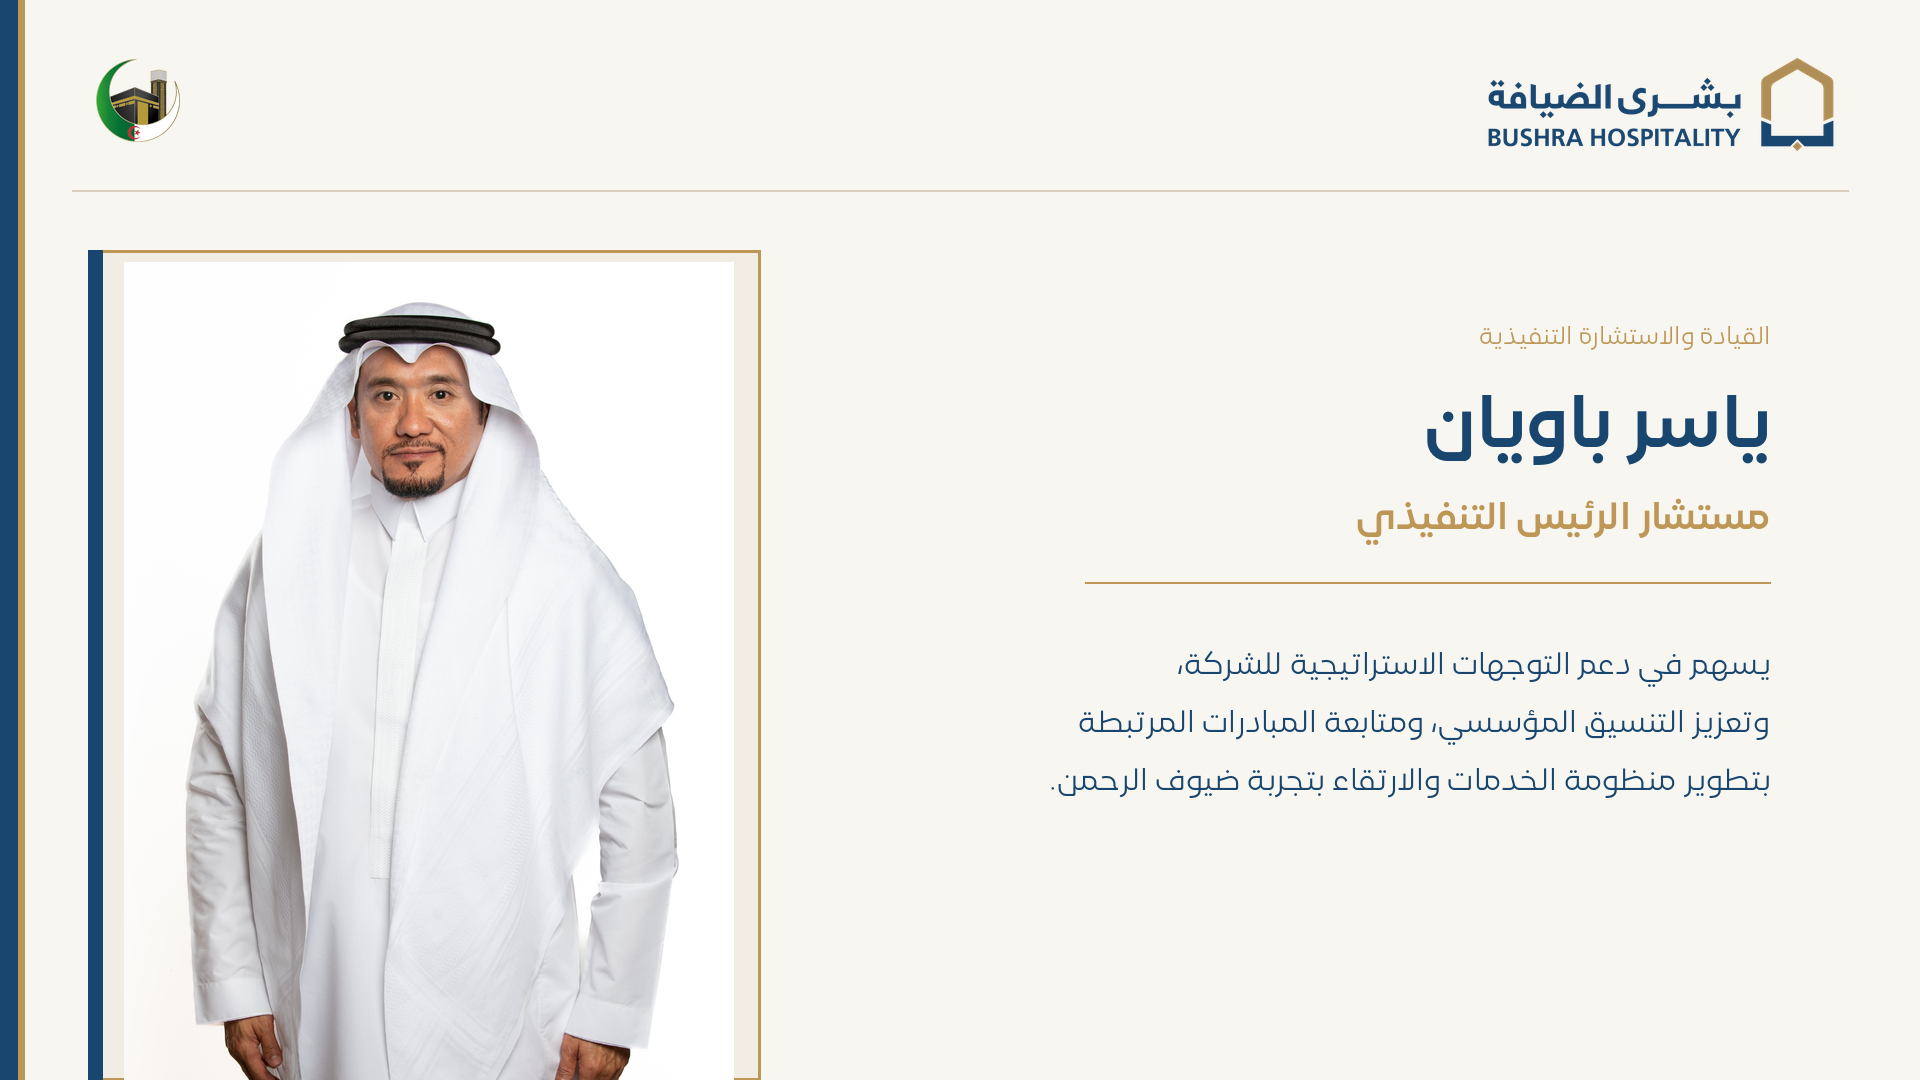
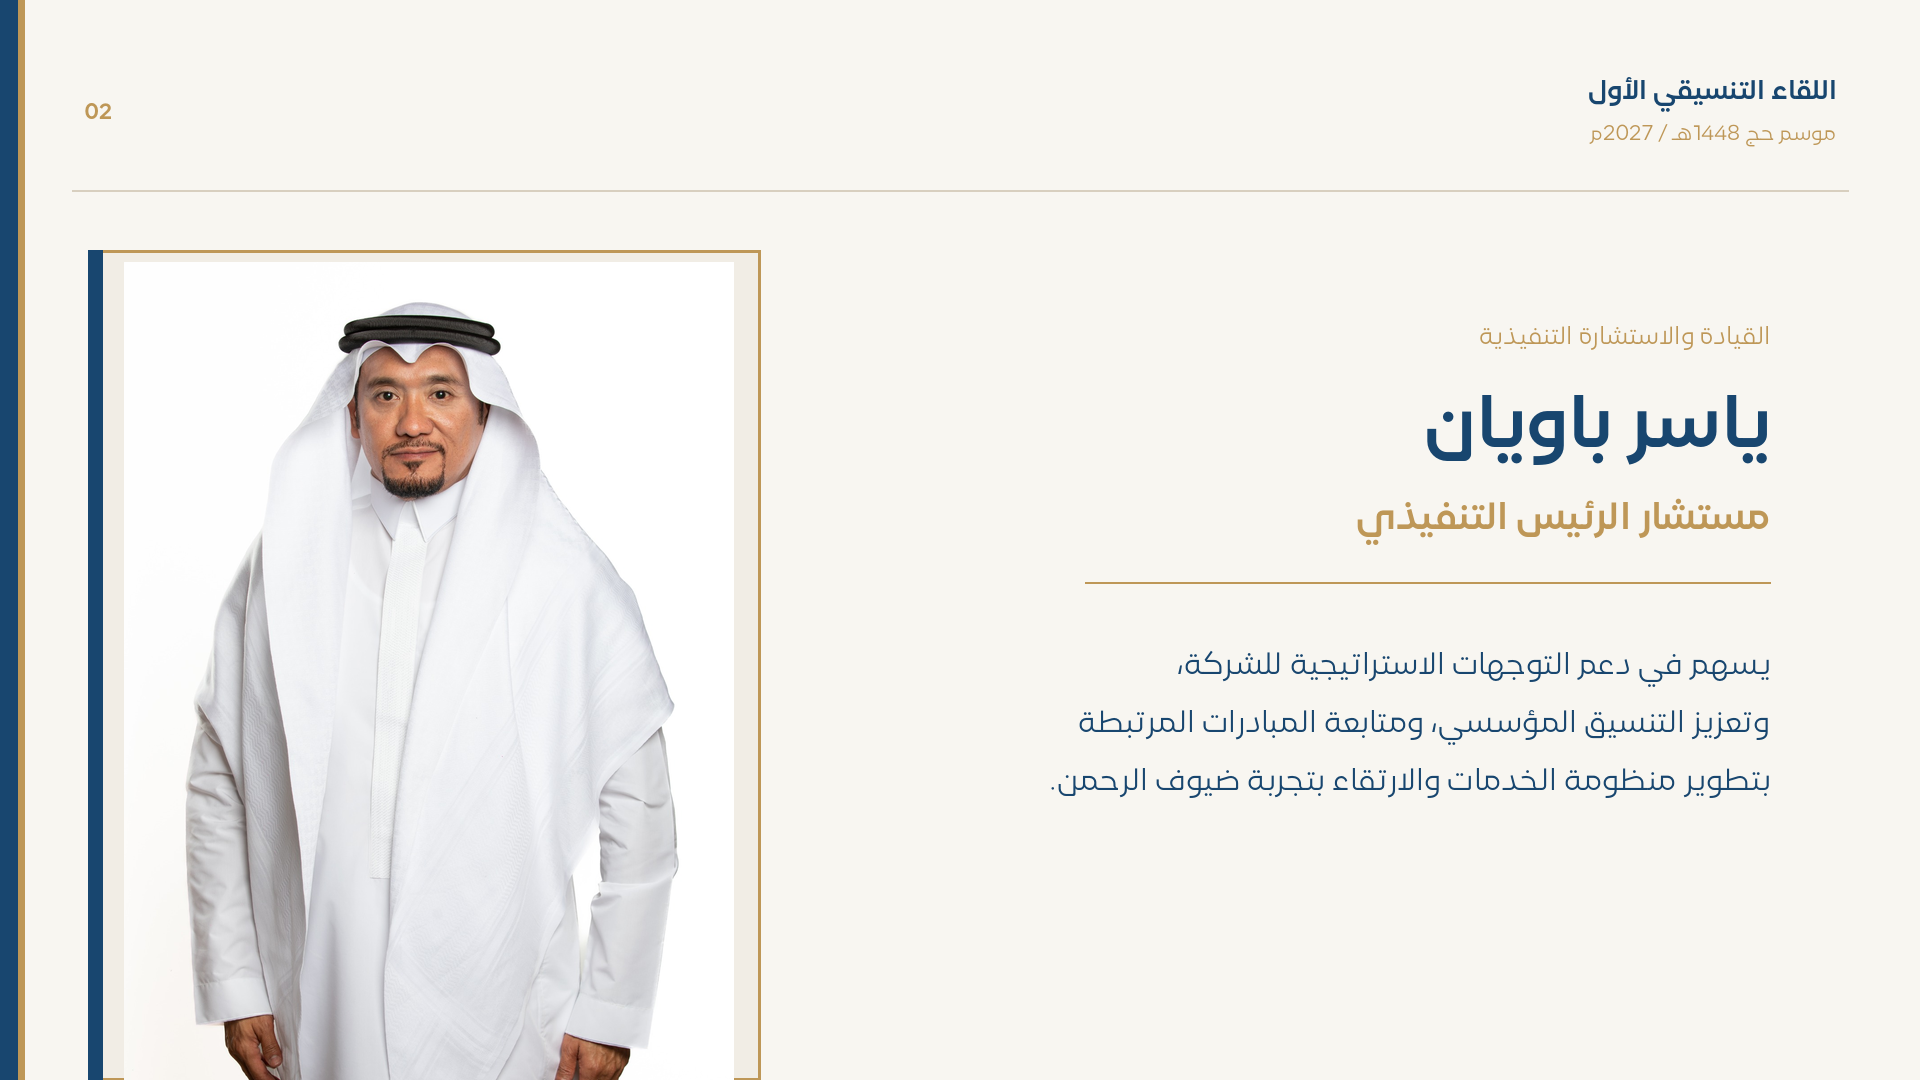
Add contextual Algeria presentation header

Changed region(s): [[0.7812, 0.0611, 0.9688, 0.1528], [0.0312, 0.0611, 0.0938, 0.1222]]

diff --git a/src/styles.css b/src/styles.css
@@ -331,6 +331,22 @@ html,body{background:#133c67}.experience{background:#133c67;color:#fff}.brand-fi
 @media(max-width:1000px){.trust-book-stage.is-cover .trust-book{width:min(78vw,760px)!important;height:min(55.2vw,538px)!important}.trust-book-stage.is-cover~.trust-book-nav button:first-child{left:8px!important}.trust-book-stage.is-cover~.trust-book-nav button:last-child{right:8px!important}}
 @media(max-width:620px){.trust-book-stage.is-cover .trust-book{width:min(86vw,540px)!important;height:min(60.85vw,382px)!important}.trust-book-stage.is-cover~.trust-book-nav button:first-child{left:1px!important}.trust-book-stage.is-cover~.trust-book-nav button:last-child{right:1px!important}}
 
+/* Contextual co-branding for the Algeria meeting — one shared header, no logo repetition in content slides. */
+.nav.nav--algeria{z-index:90;grid-template-columns:minmax(330px,1fr) auto minmax(280px,1fr);column-gap:clamp(20px,3vw,54px)}
+.partner-lockup{justify-self:center;height:52px;display:flex;align-items:center;gap:13px;direction:ltr;color:#133c67;animation:partnerLockupIn .55s cubic-bezier(.16,1,.3,1) both}
+.partner-lockup>i{width:1px;height:36px;background:linear-gradient(180deg,transparent,rgba(176,142,87,.8),transparent)}
+.partner-lockup>img{display:block;width:55px;height:48px;object-fit:contain}
+.partner-lockup>span{display:flex;flex-direction:column;gap:5px;min-width:0}
+.partner-lockup small{color:#b08e57;font:700 8px/1 sans-serif;letter-spacing:.15em;white-space:nowrap}
+.partner-lockup b{font-size:13px;line-height:1.05;font-weight:700;white-space:nowrap}
+.experience[dir="rtl"] .partner-lockup>span{direction:rtl;text-align:right}
+.experience[dir="ltr"] .partner-lockup>span{direction:ltr;text-align:left}
+.nav--algeria .lang-switch{justify-self:end}
+.meeting-presentation-modal{z-index:78;top:var(--presentation-header,78px);bottom:0;left:0;right:0}
+@keyframes partnerLockupIn{from{opacity:0;transform:translateY(-8px)}to{opacity:1;transform:none}}
+@media(max-width:1050px){.nav.nav--algeria{grid-template-columns:minmax(250px,1fr) auto auto;column-gap:15px}.partner-lockup b{display:none}.partner-lockup>img{width:45px;height:42px}}
+@media(max-width:760px){.nav.nav--algeria{grid-template-columns:minmax(0,1fr) auto auto;padding-inline:12px;column-gap:8px}.nav--algeria .brand-lockup{gap:5px}.nav--algeria .anniversary-logo{height:27px}.nav--algeria .company-wordmark{height:26px}.partner-lockup{height:42px;gap:7px}.partner-lockup>i{height:28px}.partner-lockup>img{width:36px;height:36px}.partner-lockup>span{display:none}}
+
 /* Hajj 1448 country preparations — restrained executive country index. */
 .hajj1448-scene{position:absolute;z-index:4;inset:var(--presentation-header) 0 0;padding:clamp(44px,6vh,76px) clamp(42px,7vw,132px) 92px;display:grid;grid-template-rows:auto minmax(0,1fr);gap:clamp(34px,5vh,64px);opacity:0;visibility:hidden;pointer-events:none;transform:translateY(18px);transition:opacity .55s ease,transform .75s cubic-bezier(.16,1,.3,1),visibility 0s .75s;background:radial-gradient(circle at 21% 48%,rgba(32,84,119,.34),transparent 36%),linear-gradient(118deg,rgba(2,16,27,.97),rgba(7,38,61,.94) 56%,rgba(2,16,27,.98))}
 .hajj1448-scene.is-here{opacity:1;visibility:visible;pointer-events:auto;transform:none;transition-delay:0s}

diff --git a/src/App.tsx b/src/App.tsx
@@ -253,6 +253,7 @@ export default function Home(){
     if(selected){setSelected(null);return}
     if(section!=="home")goHome();
   };
+  const isAlgeriaContext=section==="hajj1448Algeria"||modal==="meeting";
   const openSection=(next:Section)=>{transitionTimers.current.forEach(clearTimeout);setTransitioning(false);setActiveHub(null);setModal(null);setSelected(null);setSection(next)};
   const refreshPresentation=()=>{try{sessionStorage.setItem(VIEW_STORAGE_KEY,JSON.stringify({lang,section,selected,focus,modal,slide,activeShowcase,activeHospitality,activeHospitalityPhase,activeReception,activeControlObservation,activeTestimonial,activeTrust} satisfies PresentationView))}finally{location.reload()}};
   const toggleFullscreen=async()=>{try{if(document.fullscreenElement)await document.exitFullscreen();else await document.documentElement.requestFullscreen()}catch{/* Fullscreen can be blocked by the browser or an embedded frame. */}};
@@ -284,8 +285,13 @@ export default function Home(){
   return <main className={`experience theme-${focus}`} dir={rtl?"rtl":"ltr"} onPointerMove={e=>{const el=e.currentTarget;el.style.setProperty("--mx",`${e.clientX}px`);el.style.setProperty("--my",`${e.clientY}px`)}}>
     <div className="brand-film" aria-hidden="true"><video ref={backgroundVideoRef} src={`${MEDIA_BASE}/media/brand/background-video2.mp4`} poster={`${MEDIA_BASE}/media/brand/background-poster.jpg`} onLoadedMetadata={e=>{e.currentTarget.playbackRate=.72}} autoPlay muted loop playsInline preload="auto"/><div className="film-grade"/><div className="film-vignette"/><div className="film-grain"/></div>
     <div className="aurora"/><div className="cursor-light"/><div className="edge-noise"/>
-    <header className="nav">
+    <header className={`nav ${isAlgeriaContext?"nav--algeria":""}`}>
       <button className="brand-lockup" onClick={()=>transition(()=>{setSelected(null);setSection("home")})} aria-label="Bushra Hospitality home"><img className="anniversary-logo" src={`${MEDIA_BASE}/anniversary-logo.svg`} alt="11th anniversary"/><i/><img className="company-wordmark" src={activeHub!==null?"/media/brand/company-logo-dark.svg":`${MEDIA_BASE}/company-logo-horizontal.svg`} alt="Bushra Hospitality"/></button>
+      {isAlgeriaContext&&<div className="partner-lockup" aria-label={lang==="ar"?"مكتب شؤون حجاج الجزائر":"The Algerian Office of Pilgrims Affairs"}>
+        <i aria-hidden="true"/>
+        <img src="/media/hajj1448/algeria-pilgrims-office-logo-transparent.png" alt={lang==="ar"?"مكتب شؤون حجاج الجزائر":"The Algerian Office of Pilgrims Affairs"}/>
+        <span><small>{lang==="ar"?"شريك اللقاء":"MEETING PARTNER"}</small><b>{lang==="ar"?"مكتب شؤون حجاج الجزائر":"Algerian Pilgrims Office"}</b></span>
+      </div>}
       <div className="lang-switch" role="group" aria-label="Language selection">
         <button className={lang==="ar"?"is-active":""} onClick={()=>setLang("ar")} aria-label="العربية" aria-pressed={lang==="ar"}><span>عربي</span></button>
         <button className={lang==="en"?"is-active":""} onClick={()=>setLang("en")} aria-label="English" aria-pressed={lang==="en"}><span>English</span></button>

diff --git a/scripts/render_algeria_cover.py b/scripts/render_algeria_cover.py
@@ -75,19 +75,11 @@ pdraw.rectangle((0, 0, 18, H), fill=BLUE)
 pdraw.rectangle((18, 0, 24, H), fill=GOLD)
 pdraw.line((72, 190, W - 72, 190), fill=(216, 207, 191), width=2)
 
-# Smaller institutional marks create a quiet header instead of competing with content.
-bushra = Image.open(BUSHRA).convert("RGBA")
-pixels = bushra.load()
-for y in range(bushra.height):
-    for x in range(bushra.width):
-        red, green, blue, alpha = pixels[x, y]
-        if alpha and red > 235 and green > 235 and blue > 235:
-            pixels[x, y] = (*BLUE, alpha)
-bushra.thumbnail((350, 105), Image.Resampling.LANCZOS)
-profile.paste(bushra, (W - bushra.width - 84, 55), bushra)
-algeria_mark = Image.open(ALGERIA).convert("RGBA").crop((750, 38, 985, 285))
-algeria_mark.thumbnail((150, 112), Image.Resampling.LANCZOS)
-profile.paste(algeria_mark, (88, 45), algeria_mark)
+# The website header now carries the co-branding. Internal slides use a quiet
+# editorial folio instead of repeating both institutional marks.
+pdraw.text((W - 84, 78), "اللقاء التنسيقي الأول", font=f(FONT_BOLD, 27), fill=BLUE, anchor="ra", direction="rtl", language="ar")
+pdraw.text((W - 84, 124), "موسم حج 1448هـ / 2027م", font=f(FONT_REGULAR, 21), fill=GOLD, anchor="ra", direction="rtl", language="ar")
+pdraw.text((84, 102), "02", font=f(FONT_BOLD, 22), fill=GOLD, anchor="la")
 
 # The portrait becomes an editorial image with one thin architectural accent.
 photo_box = (88, 250, 760, H)
